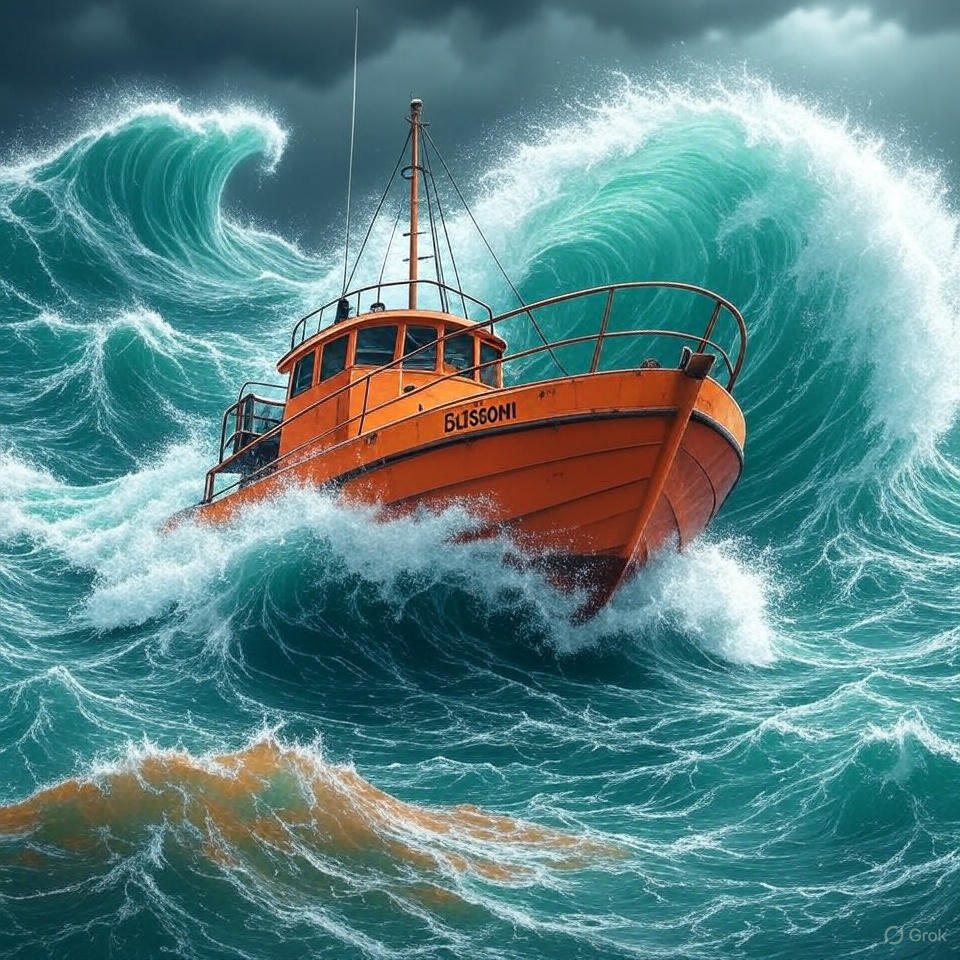
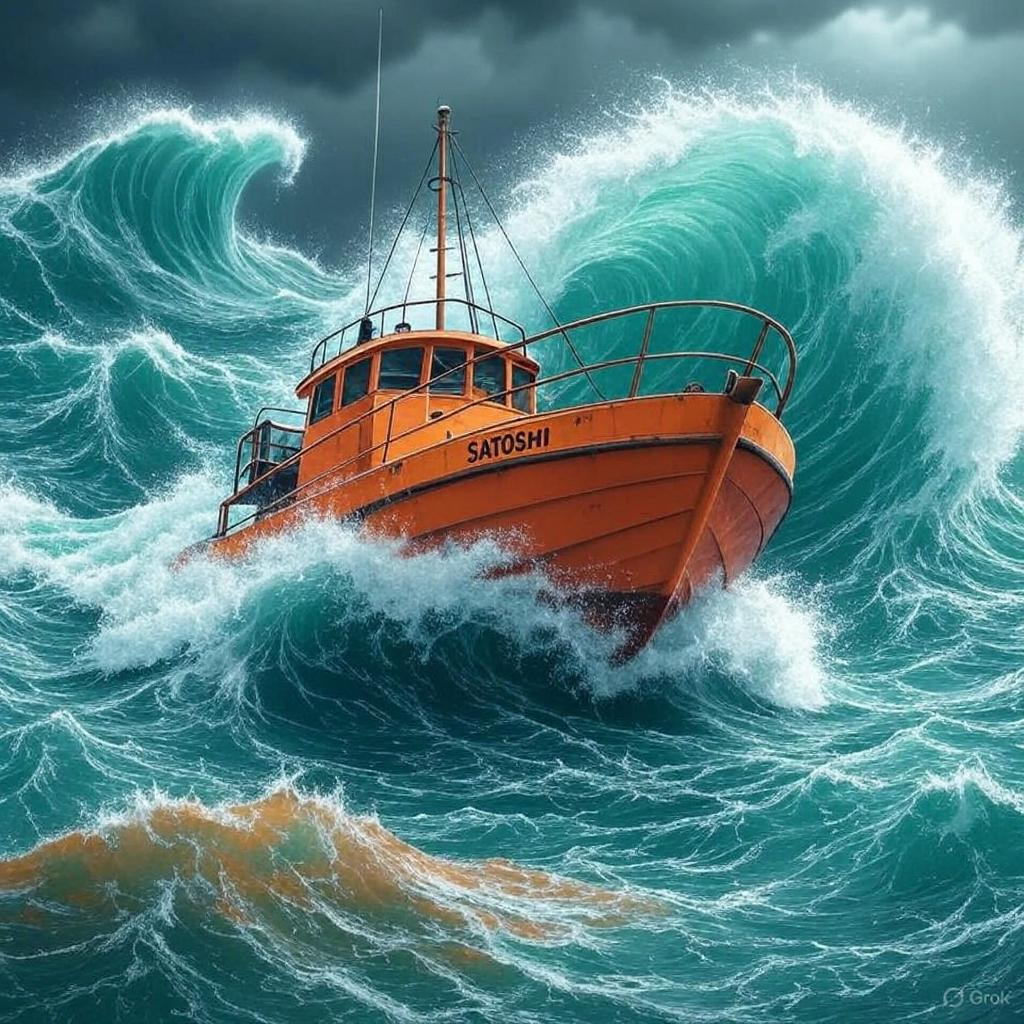
Missverständnisse: update two images for improved presentation
- Update volatil.jpg with improved visual representation
- Add bitcoin-skalieren-2.jpg replacing bitcoin-skalieren.jpg for scalability section
- Maintain consistent visual quality across all misconception slides

🤖 Generated with [Claude Code](https://claude.ai/code)

diff --git a/slides/2025-missverstaendnisse/2025-missverstaendnisse.tex b/slides/2025-missverstaendnisse/2025-missverstaendnisse.tex
@@ -231,7 +231,7 @@
 	\item Verbote \textbf{schwer durchsetzbar}
 }{Rechtliche Klarheit nimmt weltweit zu.}
 
-\misconceptionslide[pix/bitcoin-skalieren.jpg]{Skalierbarkeit}{Bitcoin kann nur 3-4 Transaktionen pro Sekunde verarbeiten}{%
+\misconceptionslide[pix/bitcoin-skalieren-2.jpg]{Skalierbarkeit}{Bitcoin kann nur 3-4 Transaktionen pro Sekunde verarbeiten}{%
 	\item \textbf{Blockchain-Trilemma}: Skalierbarkeit vs. Sicherheit vs. Dezentralisierung
 	\item \textbf{Lightning Network}: bis zu \textbf{1 Million TPS}
 	\item Visa: \textbf{65.000 TPS}, \textbf{150 Mio. TX/Tag}\footnotemark
